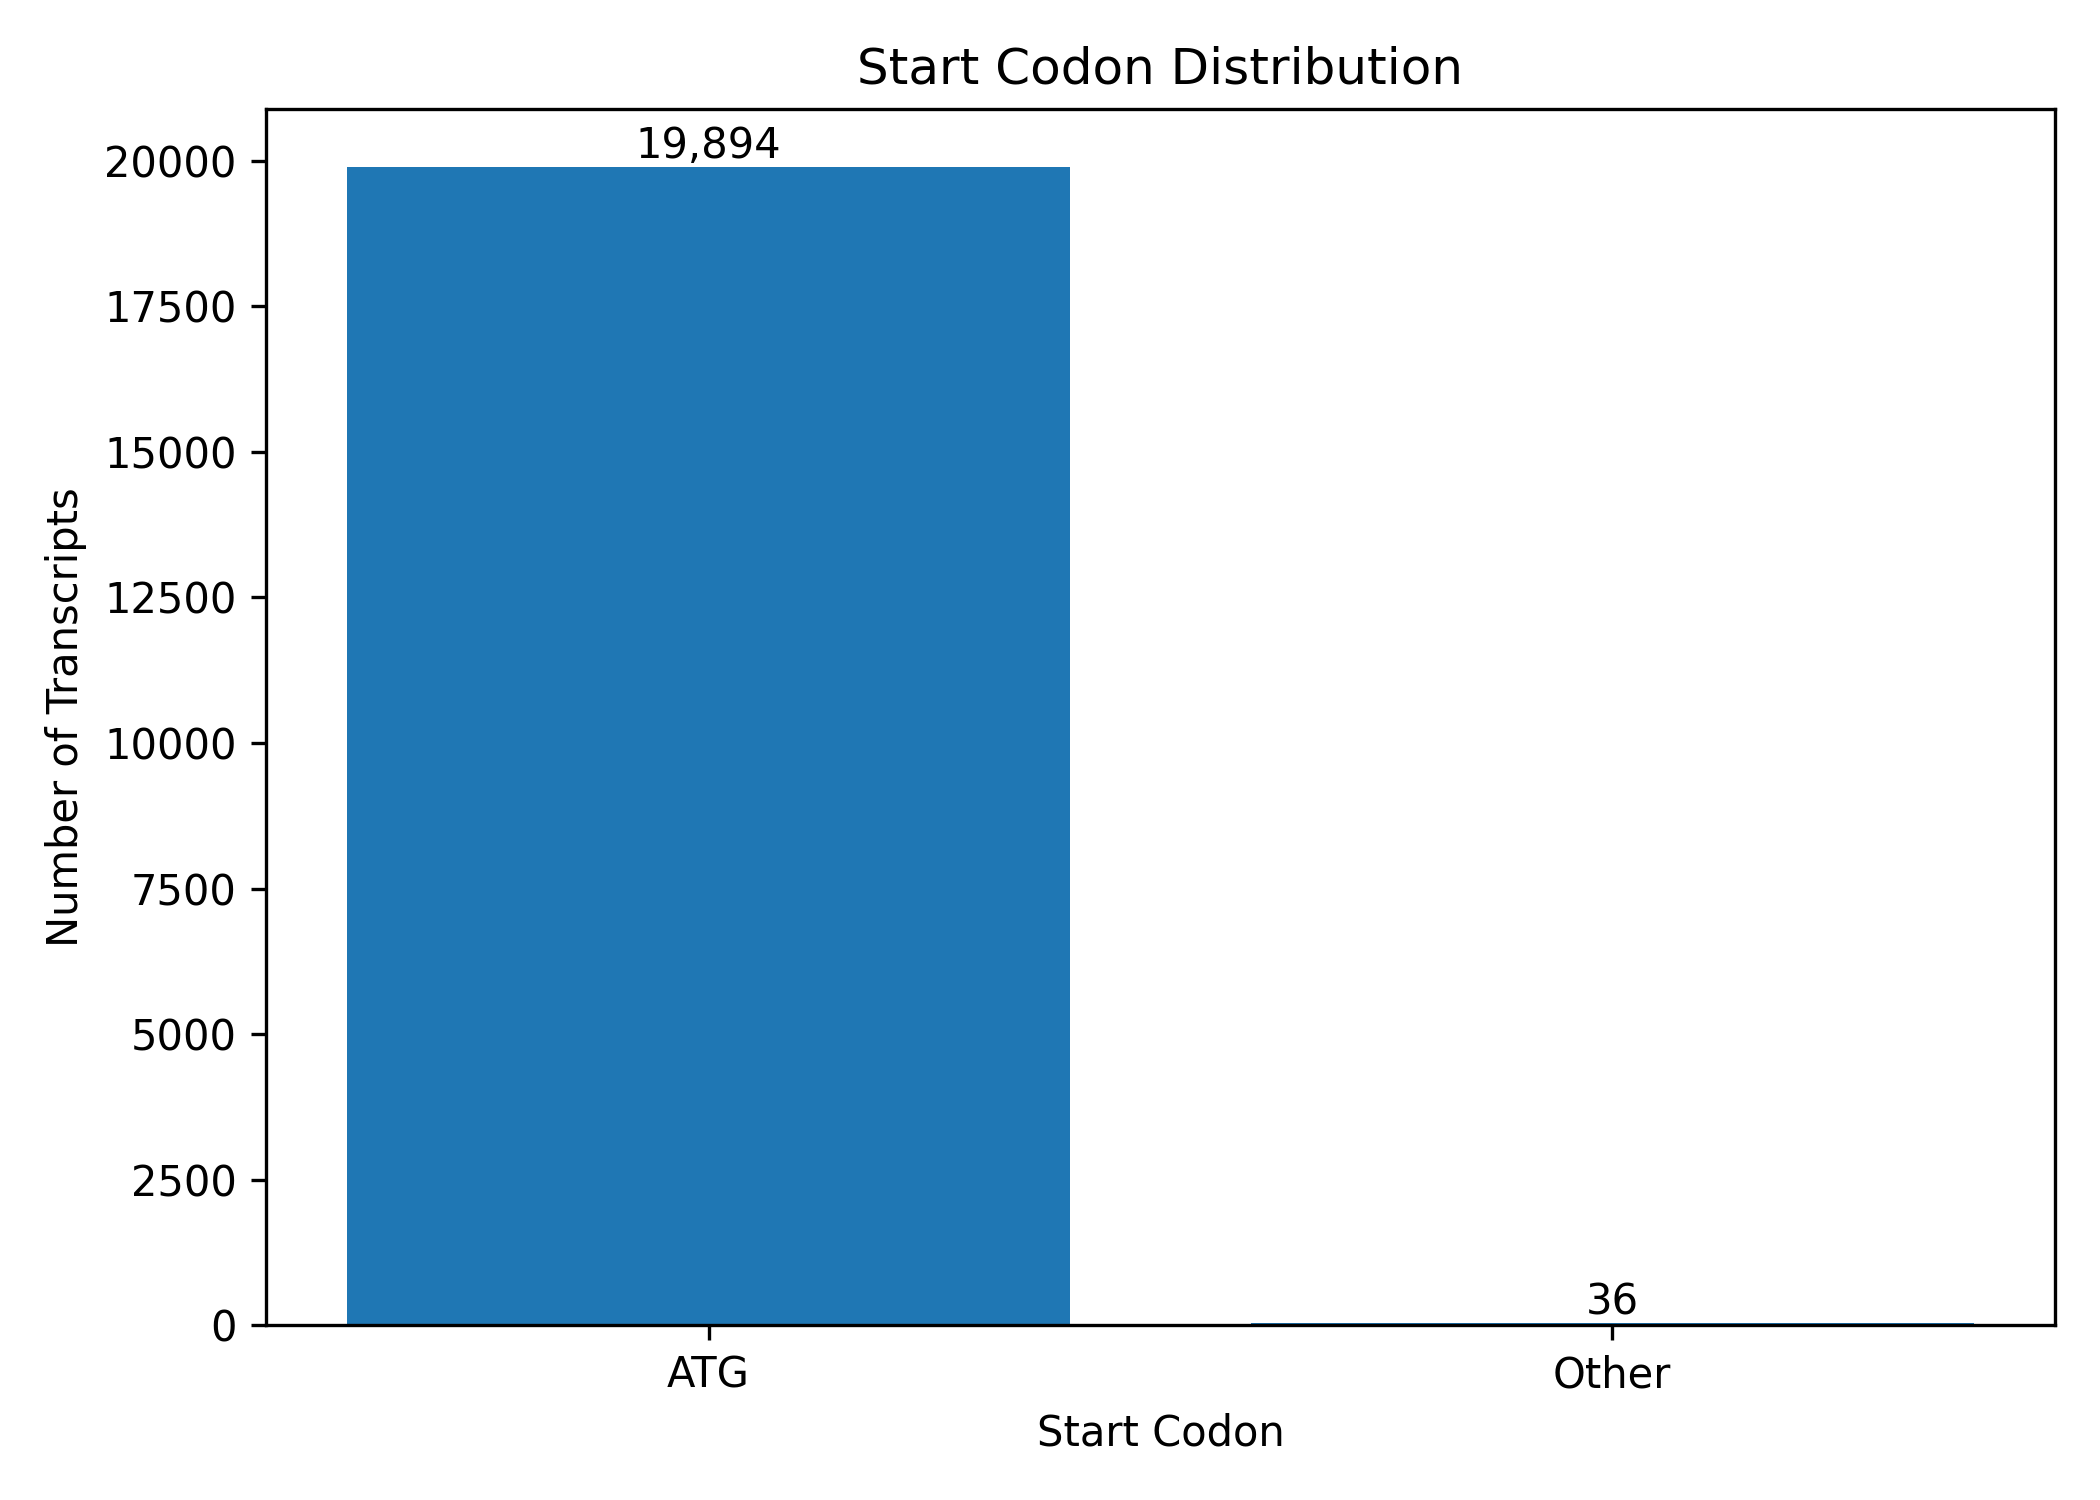
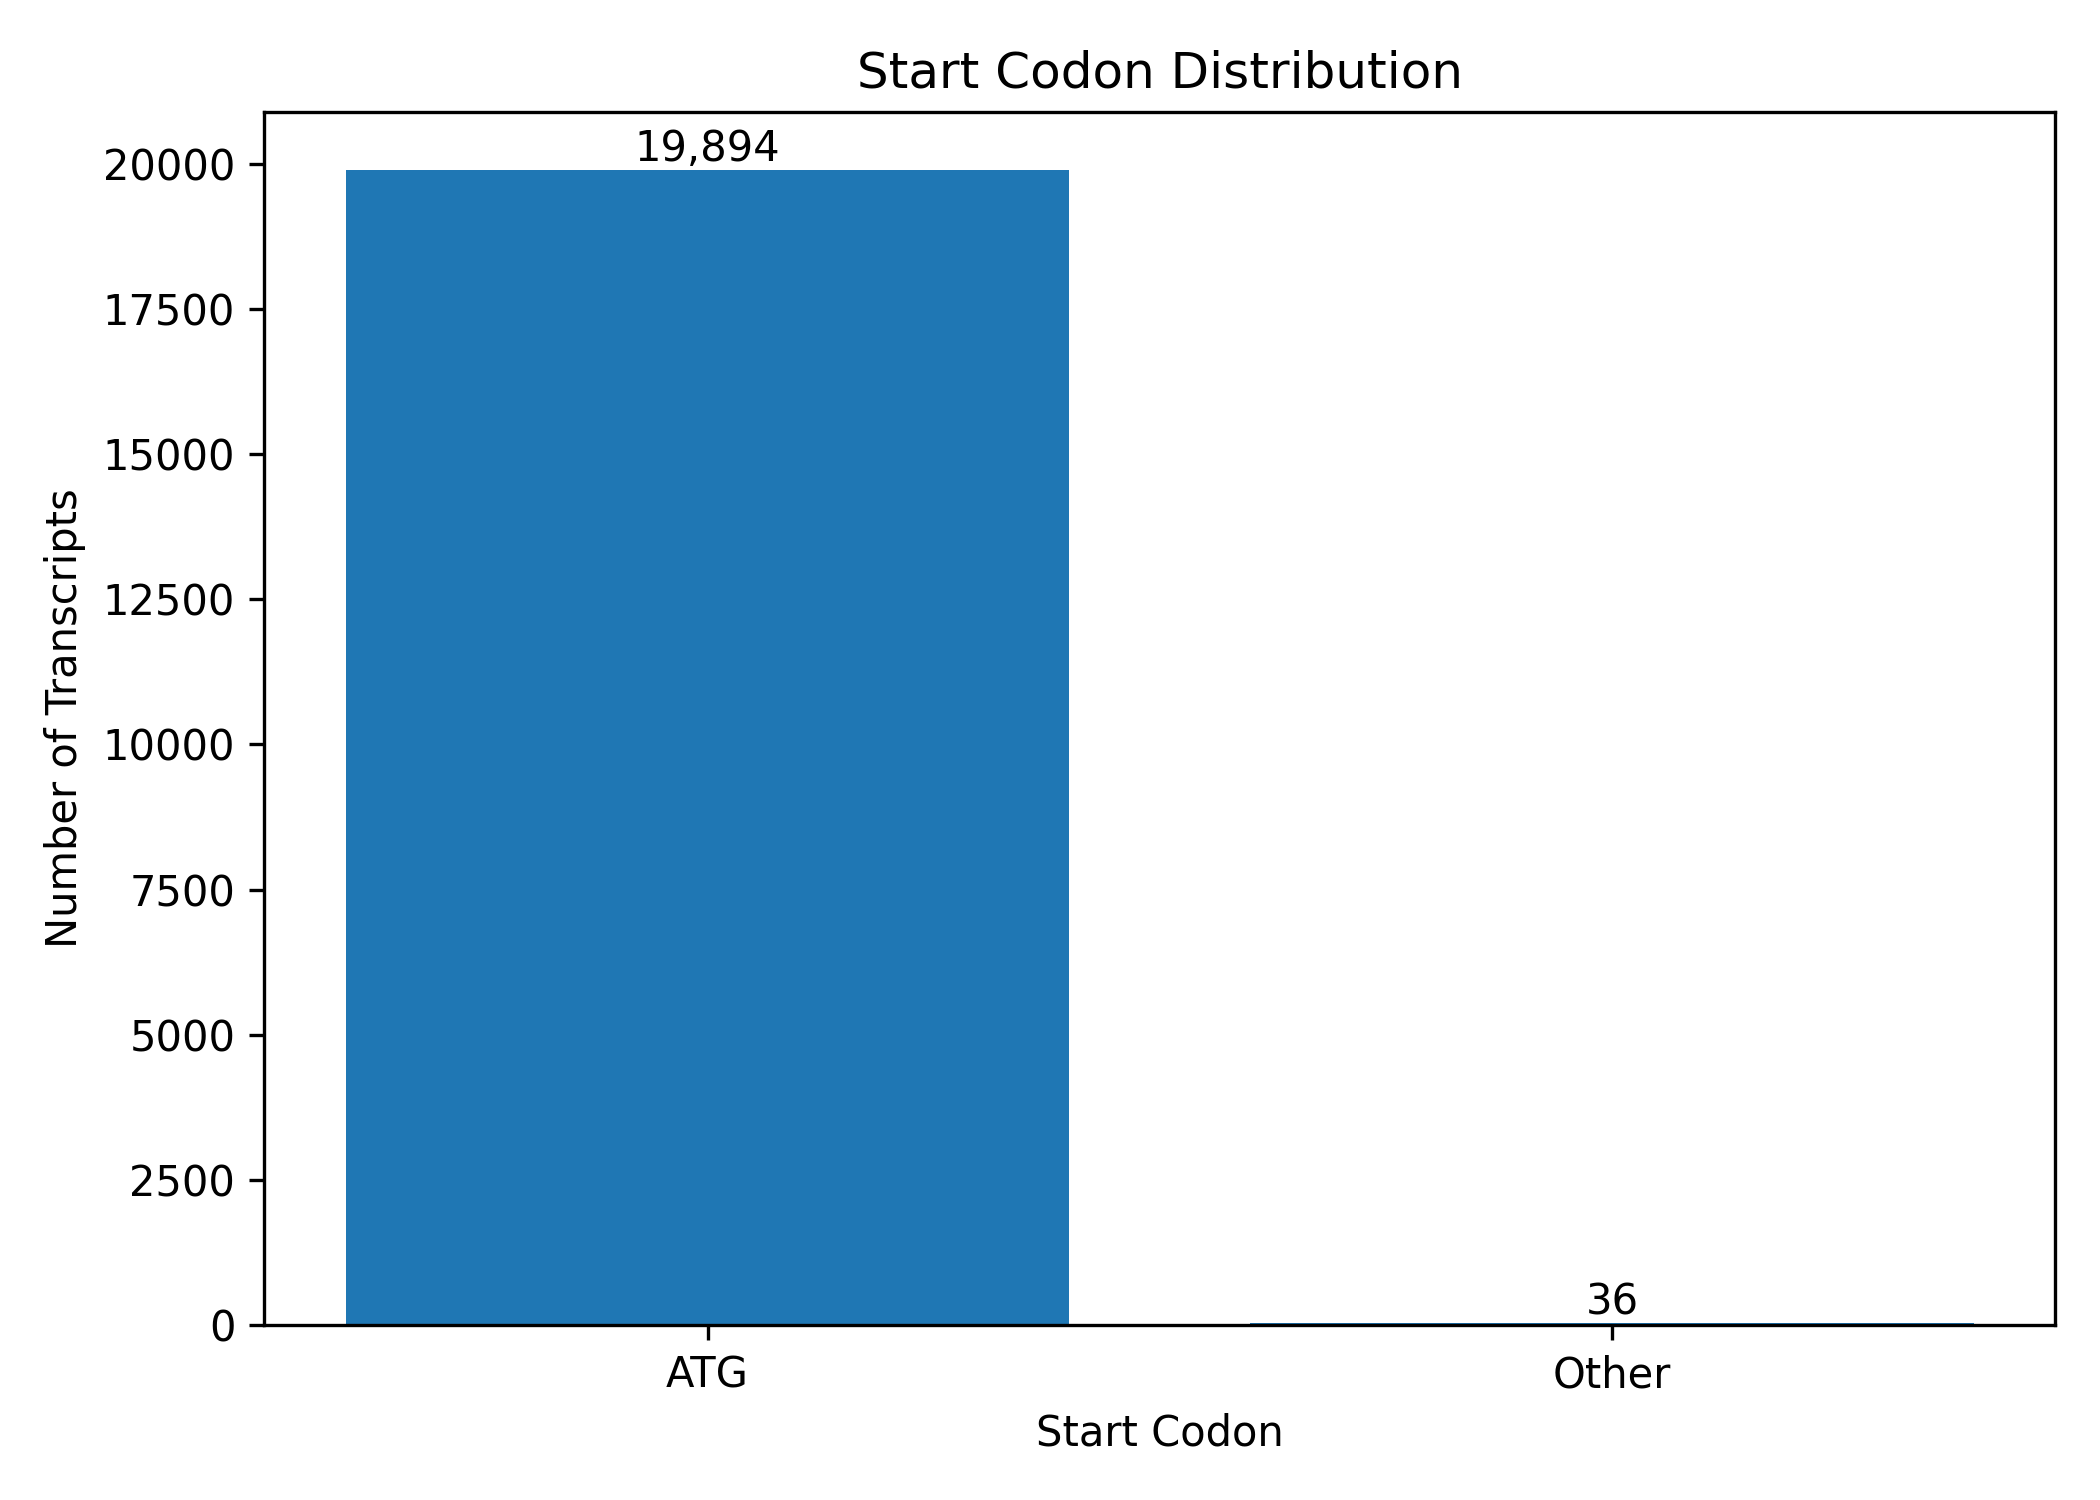
Updated Readme and Added pipline to run all scripts

diff --git a/scripts/run_pipeline.py b/scripts/run_pipeline.py
@@ -1,0 +1,28 @@
+"""Build the reference CSV files using the documented pipeline."""
+import subprocess
+import sys
+from pathlib import Path
+
+ROOT = Path(__file__).resolve().parents[1]
+STEPS = [
+    "make_gene_csv.py",
+    "add_canonical_transcripts.py",
+    "add_cdna_sequences.py",
+    "add_protein_sequences.py",
+    "add_genomic_sequences.py",
+    "extract_cds_sequences.py",
+]
+
+def main():
+    required = ["genes.gtf", "cdna.fa.bgz", "pep.fa.bgz", "unmasked.fa.bgz"]
+    missing = [name for name in required if not (ROOT / "data" / name).is_file()]
+    if missing:
+        raise SystemExit("Missing files in data/: " + ", ".join(missing))
+    for index, step in enumerate(STEPS, 1):
+        print(f"\n[{index}/{len(STEPS)}] {step}", flush=True)
+        subprocess.run([sys.executable, "-u", str(ROOT / "scripts" / step)],
+                       cwd=ROOT, check=True)
+    print("\nComplete: data/final_gene_dataset.csv and data/genes_with_cds.csv", flush=True)
+
+if __name__ == "__main__":
+    main()

diff --git a/README.md b/README.md
@@ -1,105 +1,53 @@
 # Frameshift Mutation MQP
 
-This project builds a reference dataset of human protein-coding genes from Ensembl GRCh38.p14 for frameshift mutation analysis.
+We are building a reference dataset of human protein-coding genes for frameshift mutation analysis. The current dataset has 20,131 genes with canonical transcripts, cDNA, protein, genomic and CDS sequences.
 
-## Project Goal
+## Data source
 
-The current pipeline:
+We used Ensembl GRCh38.p14, assembly accession **GCA_000001405.29**, from the **2026_04** dataset.
 
-1. Identifies protein-coding genes
-2. Matches each gene to its canonical transcript
-3. Adds cDNA sequences
-4. Adds protein sequences
-5. Adds genomic sequences
-6. Extracts CDS sequences
-7. Calculates sequence-length statistics
-8. Analyzes start and stop codons
+- [Gene annotations, cDNA and protein downloads](https://ftp.ebi.ac.uk/pub/ensemblorganisms/GCA/000/001/405/29/ensembl/2026_04/geneset/)
+- [Genome download](https://ftp.ebi.ac.uk/pub/ensemblorganisms/GCA/000/001/405/29/ensembl/2026_04/genome/)
 
-## Data Source
+## Setup
 
-Human genome data were downloaded from Ensembl using:
-
-- Assembly: GRCh38.p14
-- Genome accession: GCA_000001405.29
-
-Required files:
-
-- `genes.gtf`
-- `cdna.fa.bgz`
-- `pep.fa.bgz`
-- `unmasked.fa.bgz`
-
-These files are too large to store in this GitHub repository.
-
-## Folder Structure
+1. Download or clone this repository and open `frameshift-mutation-mqp` in VS Code. We used Python 3.12.
+2. Create a `data` folder inside the project.
+3. Download the files from the sources above and put them in `data`:
 
 ```text
-frameshift-mutation-mqp/
-├── scripts/
-├── figures/
-├── data/
-├── CODING_BOOK.md
-├── requirements.txt
-└── .gitignore
+data/
+  genes.gtf
+  cdna.fa.bgz
+  pep.fa.bgz
+  unmasked.fa.bgz
+```
 
-The data/ folder is stored locally and is not uploaded to GitHub.
-Setup
-1. Clone the repository
-git clone https://github.com/amyqle/frameshift-mutation-mqp.git
-cd frameshift-mutation-mqp
+The data files are stored locally and are not included in this repository.
 
-2. Install required Python libraries
-python3 -m pip install -r requirements.txt
+## Build the CSV files
 
-3. Create a data folder
-mkdir data
+Run this from the project folder:
 
-Download the following Ensembl files and place them inside the data/ folder:
-- genes.gtf
-- cdna.fa.bgz
-- pep.fa.bgz
-- unmasked.fa.bgz
+```powershell
+python scripts/run_pipeline.py
+```
 
-Run Order
-Run the scripts from the main project folder in this order:
-python3 scripts/make_gene_csv.py
-python3 scripts/add_canonical_transcripts.py
-python3 scripts/add_cdna_sequences.py
-python3 scripts/add_protein_sequences.py
-python3 scripts/add_genomic_sequences.py
-python3 scripts/extract_cds_sequences.py
+The runner runs the six dataset scripts in order. Running it again replaces the generated CSV files.
 
-For analysis:
-python3 scripts/basic_statistics.py
-python3 scripts/make_histograms.py
-python3 scripts/analyze_codons.py
-python3 scripts/make_codon_charts.py
+Main outputs:
 
-filter_genes.py was used as an initial filtering test and is not required for the main pipeline.
+- `data/final_gene_dataset.csv`: reference genes with cDNA, protein and genomic sequences.
+- `data/genes_with_cds.csv`: the reference dataset with coding sequences added.
 
-Current Results
+## Statistics and graphs
 
-The pipeline produced:
-- 20,131 protein-coding gene records
-- 20,131 canonical transcript matches
-- 20,131 cDNA sequence matches
-- 20,131 protein sequence matches
-- 20,131 genomic sequence matches
-- 20,131 CDS sequence matches
+Install the analysis libraries, then run:
 
-The current analysis includes:
-- Genomic sequence length distribution
-- cDNA sequence length distribution
-- Protein sequence length distribution
-- Basic sequence-length statistics
-- Start codon distribution
-- Stop codon distribution
-
-Documentation
-See CODING_BOOK.md for an explanation of what each Python script does.
-
-Next Steps
-- Validate CDS-to-protein translation
-- Simulate frameshift mutations
-- Translate mutated CDS sequences
-- Compare reference and mutated proteins
+```powershell
+python -m pip install -r requirements.txt
+python scripts/basic_statistics.py
+python scripts/make_histograms.py
+python scripts/analyze_codons.py
+python scripts/make_codon_charts.py
+```
